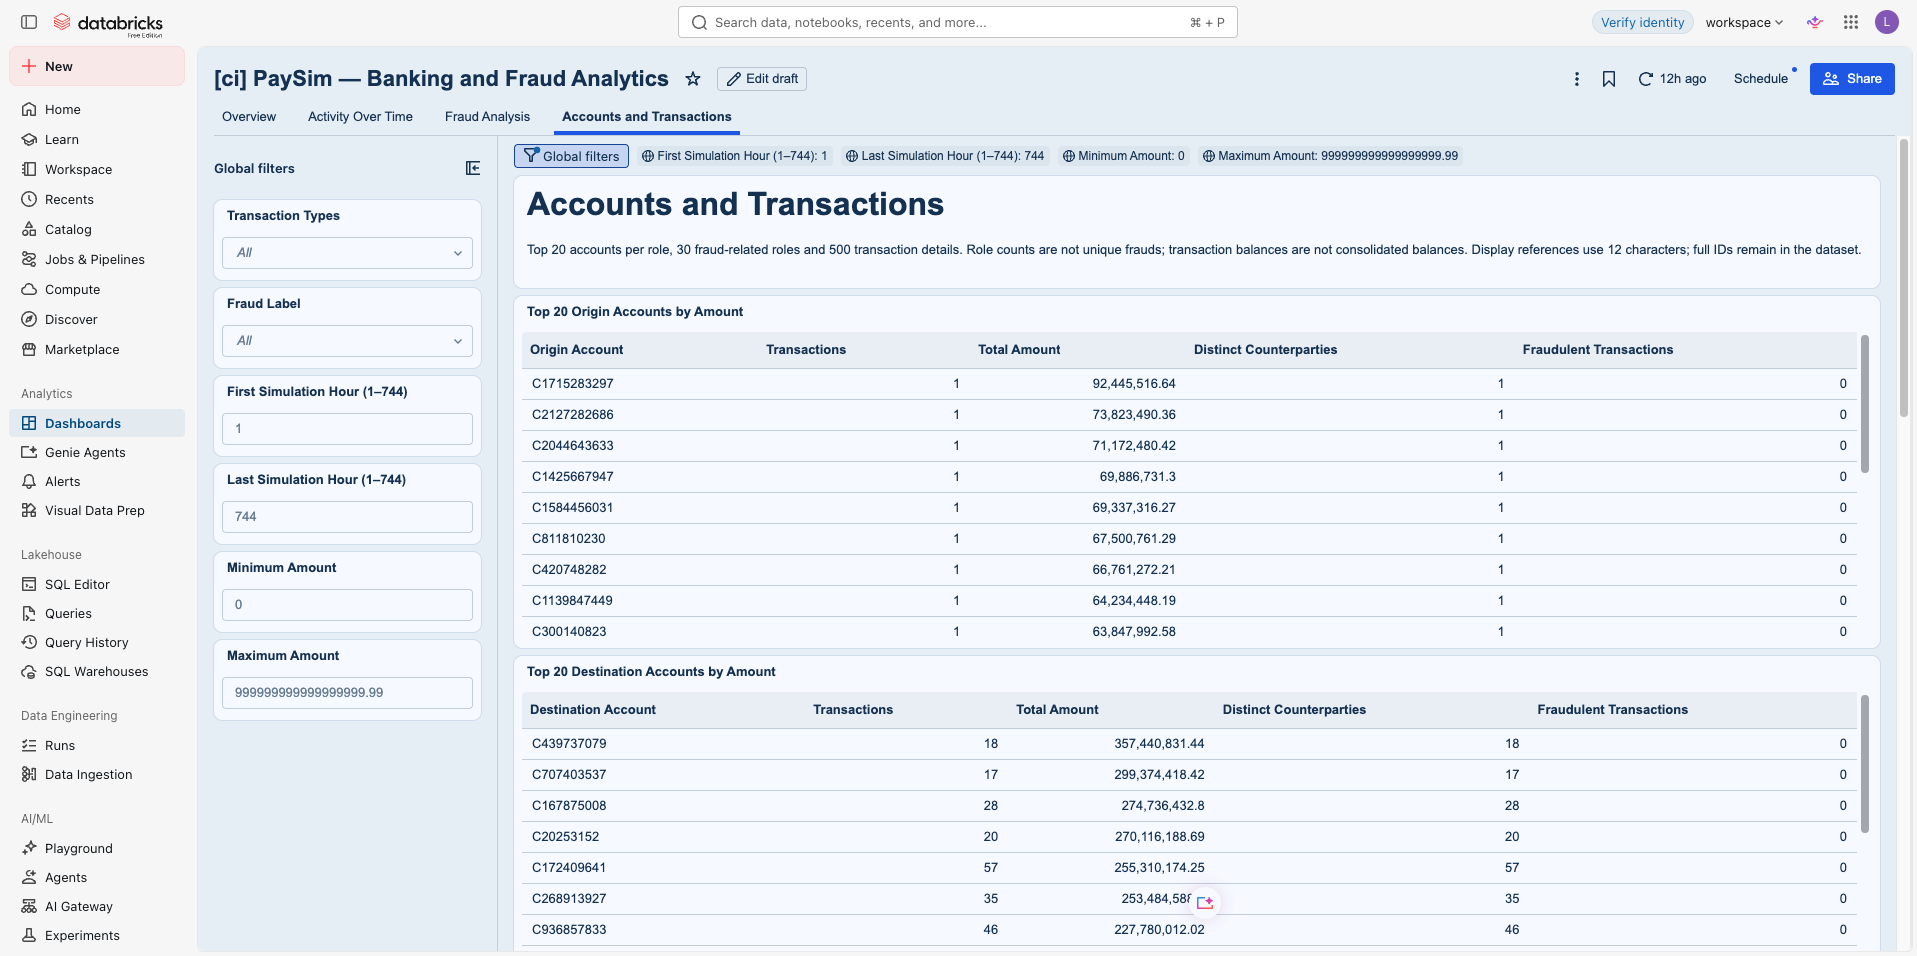
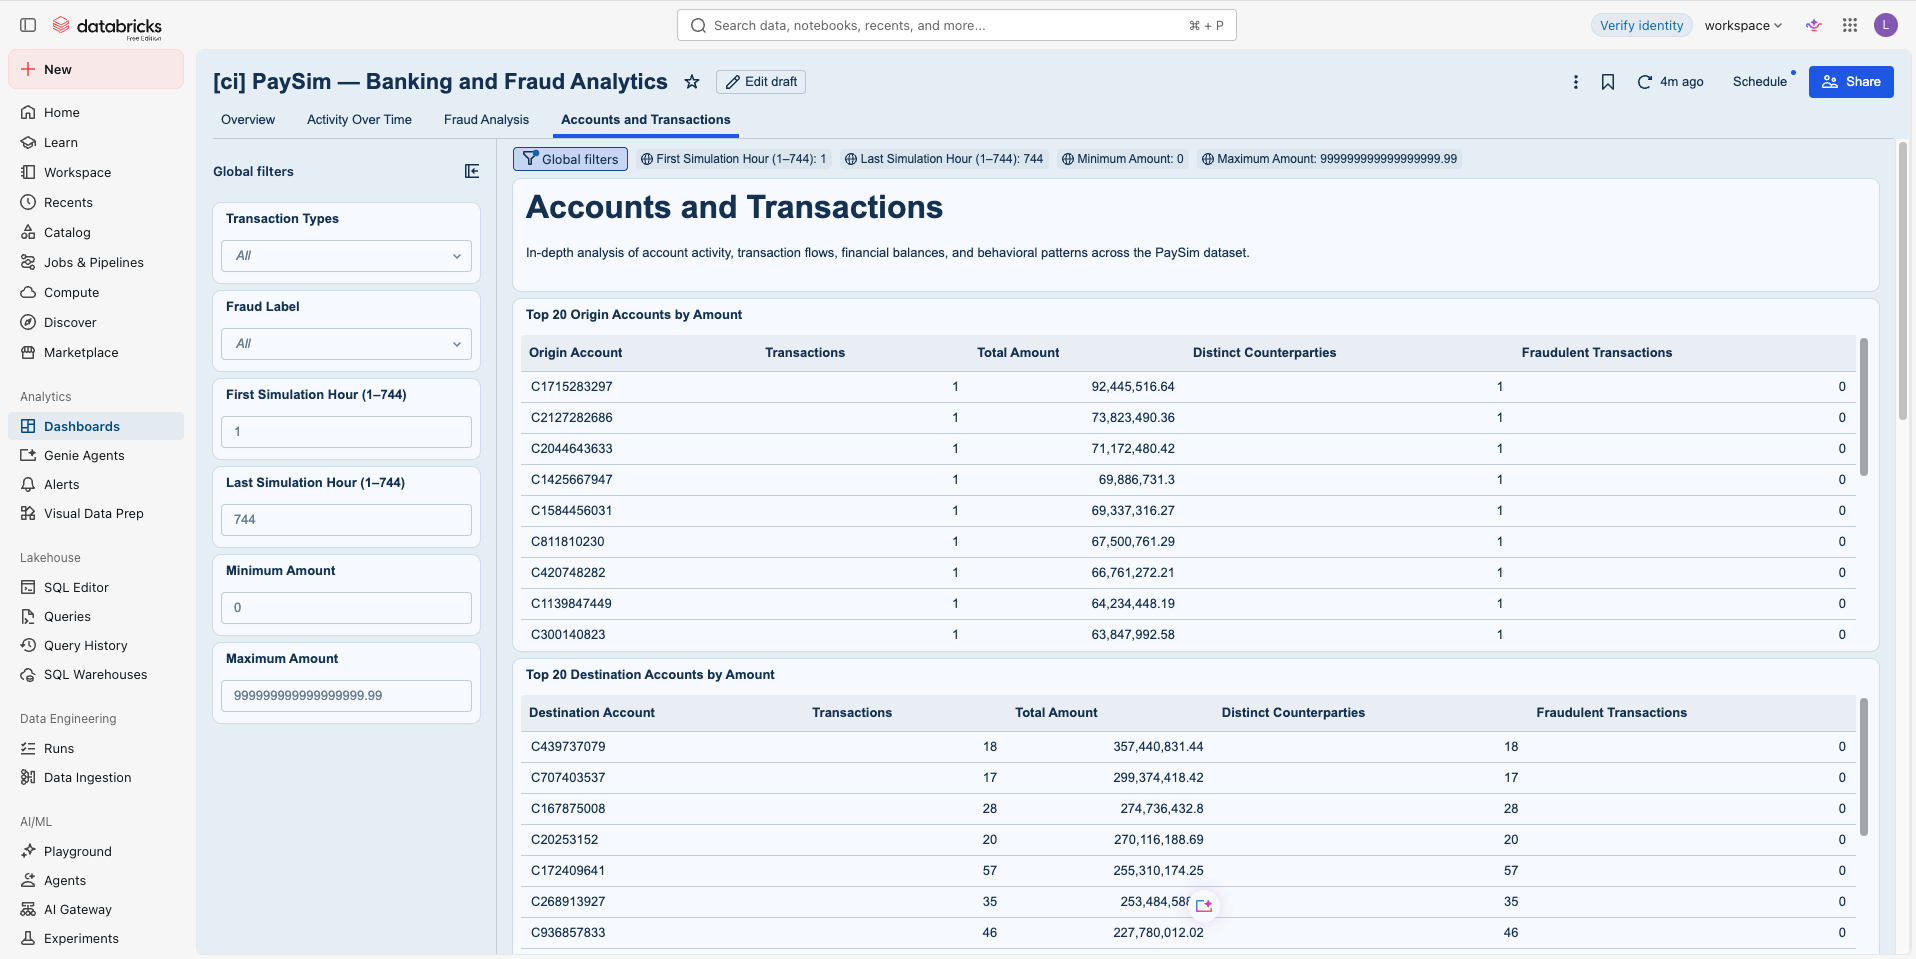
Add portfolio screenshots

diff --git a/scripts/build_dashboard.py b/scripts/build_dashboard.py
@@ -221,7 +221,7 @@ def build():
             if color:
                 spec['encodings']['color']={'fieldName':color,'displayName':LABELS.get(color,color.replace('_',' ').title()),'scale':{'type':'categorical'}}
         layout.append({'widget':{'name':f'{pages[-1]["name"]}_{len(layout)}','queries':[{'name':'main_query','query':{'datasetName':ds,'fields':fields,'disaggregated':True}}],'spec':spec},'position':{'x':x,'y':y,'width':width,'height':height}})
-    note='Synthetic PaySim banking transactions • Selected snapshot and filters • Simulation hours, no calendar dates or assigned currency • Imported data, not a live feed. Percentiles are approximate.'
+    note='Comprehensive overview of banking transactions, financial activity, and fraud detection insights across the PaySim dataset.'
     layout=page('overview','Overview',note)
     for i,(col,title,pct) in enumerate([('transactions','Transactions',False),('total_amount','Total Amount',False),('average_amount','Average Amount',False),('median_amount','Approximate Median Amount',False),('fraud_transactions','Fraudulent Transactions (PaySim Labels)',False),('fraud_rate','Fraud Rate',True),('fraud_amount','Fraud Amount',False),('fraud_amount_share','Fraudulent Share of Total Amount',True)]):
         widget(layout,'01_summary',title,[col],'counter',x=(i%4)*3,y=3+(i//4)*3,width=3,height=3,percent=pct)
@@ -229,7 +229,7 @@ def build():
     widget(layout,'02_by_type','Amounts by Type',['transaction_type','total_amount'],'bar',x=6,y=9,width=6)
     widget(layout,'06_amount_distribution','Amount Distribution — Transaction Counts',['amount_band','transactions'],'bar',y=15,width=6)
     widget(layout,'02_by_type','Summary by Type',['transaction_type','transactions','total_amount','average_amount','median_amount','fraud_transactions','fraud_rate'],x=6,y=15,width=6)
-    layout=page('time','Activity Over Time','Activity across the selected simulation hours. Hours are relative, not calendar dates. The first hourly change is undefined; simulated patterns do not establish real-world seasonality or forecasts.')
+    layout=page('time','Activity Over Time','Detailed analysis of banking transaction activity, volumes, amounts, and fraud trends across simulation time periods.')
     for i,(ds,title,cols,kind,color) in enumerate([
         ('03_hourly','Transactions by Simulation Hour',['simulation_step','transactions'],'line',None),
         ('03_hourly','Amounts by Simulation Hour',['simulation_step','total_amount'],'line',None),
@@ -238,7 +238,7 @@ def build():
         ('05_hour_change','Change in Observed Transaction Counts',['simulation_step','transaction_change','transaction_growth'],'table',None),
         ('03_hourly','Hourly Metrics',['simulation_step','transactions','total_amount','average_amount','fraud_transactions','fraud_rate'],'table',None)]):
         widget(layout,ds,title,cols,kind,x=(i%2)*6,y=3+(i//2)*6,width=6,color=color)
-    layout=page('fraud','Fraud Analysis','Labels identify known simulated fraud, not predictions. The PaySim flag is not our trained model. Undefined precision remains NULL; high accuracy can conceal poor fraud recall. Relative rates use the filtered population.')
+    layout=page('fraud','Fraud Analysis','Comprehensive analysis of fraudulent transactions, fraud patterns, financial exposure, and risk distribution across banking activities.')
     for i,(ds,title,cols,kind) in enumerate([
         ('08_type_risk','Fraud Rate by Type',['transaction_type','fraud_rate'],'bar'),
         ('08_type_risk','Fraud by Type and Relative Rate',['transaction_type','transactions','fraud_transactions','fraud_rate','relative_rate','fraud_amount'],'table'),
@@ -248,7 +248,7 @@ def build():
         ('10_flag_metrics','Descriptive Evaluation of the PaySim Flag',['tp','fp','fn','tn','precision_flag','recall_flag','f1_flag','accuracy_flag'],'table'),
         ('15_balance_changes','Observed Balance Changes per Transaction',['transaction_type','fraud_label','transactions','average_amount','average_origin_change','average_destination_change','origin_zero_after'],'table')]):
         widget(layout,ds,title,cols,kind,x=(i%2)*6,y=3+(i//2)*6,width=12 if i==6 else 6)
-    layout=page('accounts','Accounts and Transactions','Top 20 accounts per role, 30 fraud-related roles and 500 transaction details. Role counts are not unique frauds; transaction balances are not consolidated balances. Display references use 12 characters; full IDs remain in the dataset.')
+    layout=page('accounts','Accounts and Transactions','In-depth analysis of account activity, transaction flows, financial balances, and behavioral patterns across the PaySim dataset.')
     for i,(ds,title,cols,kind) in enumerate([
         ('11_origin_accounts','Top 20 Origin Accounts by Amount',['origin_account','transactions','total_amount','distinct_counterparties','fraud_transactions'],'table'),
         ('12_destination_accounts','Top 20 Destination Accounts by Amount',['destination_account','transactions','total_amount','distinct_counterparties','fraud_transactions'],'table'),

diff --git a/docs/portfolio.md b/docs/portfolio.md
@@ -36,7 +36,7 @@ Example captions:
 - “An isolated 10,000-row publication retry reused the same successful Databricks run.”
 - “A restored EBS copy passed the CSV fingerprint, recovery metadata and pinned star-table read/count checks.”
 
-State limits alongside achievements: one Kafka broker, snapshot-based Databricks analytics, repeated full-prefix checks in the measured baseline, and no predictive model. The [validation record](validation-record.md) is the source for precise claims. The Overview screenshot is included as `docs/images/dashboard-overview.png` (received 2026-11-16). It shows all eight KPIs with default filters; the lower charts are cropped by the viewport. Fraud Analysis was also received on 2026-11-16 and is included below. The included evidence is listed above; no placeholders are presented as completed evidence.
+State limits alongside achievements: one Kafka broker, snapshot-based Databricks analytics, repeated full-prefix checks in the measured baseline, and no predictive model. The [validation record](validation-record.md) is the source for precise claims. The four dashboard screenshots were refreshed on 2026-11-18 with the approved page titles and descriptions. Overview shows all eight KPIs with default filters; lower charts are cropped by the viewport. The included evidence is listed above; no placeholders are presented as completed evidence.
 
 ## Analytics gallery
 
@@ -46,11 +46,11 @@ The supplied PaySim flag catches 16 of 8,213 fraud-labeled transactions (0.1948%
 
 ![Activity Over Time: transaction counts and amounts by simulation hour](images/dashboard-time.png)
 
-Full-snapshot activity by relative simulation hour, with default filters. The two main charts are fully visible; the lower type and fraud charts continue below the viewport. These simulated patterns are not evidence of real-world seasonality. Received 2026-11-16.
+Full-snapshot activity by relative simulation hour, with default filters. The two main charts are fully visible; the lower type and fraud charts continue below the viewport. These simulated patterns are not evidence of real-world seasonality. Updated 2026-11-18.
 
 ![Accounts and Transactions: origin and destination account rankings](images/dashboard-accounts.png)
 
-Account rankings by transaction amount, with counts and distinct counterparties for each account role. Identifiers belong to the synthetic PaySim dataset. Default filters retain the full snapshot; the visible rows are a viewport into each Top 20 table. Received 2026-11-16.
+Account rankings by transaction amount, with counts and distinct counterparties for each account role. Identifiers belong to the synthetic PaySim dataset. Default filters retain the full snapshot; the visible rows are a viewport into each Top 20 table. Updated 2026-11-18.
 
 ## Infrastructure evidence
 

diff --git a/README.md b/README.md
@@ -19,7 +19,7 @@ flowchart LR
     E --> SQL[Spark SQL]
     E -->|Verified Parquet + manifest| S3[Private S3 exports]
     S3 -->|Read-only Unity Catalog external volume| DB[Databricks Managed Delta Tables]
-    DB --> BI[English AI/BI Dashboard]
+    DB --> BI[Dashbord]
     TF[Terraform] -.-> AWS[EC2 · EBS · S3 · IAM · Security group]
     CI[GitHub Actions] -.-> DAB[DAB deployment]
     DAB -.-> DB
